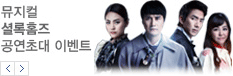
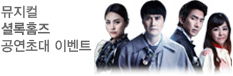
dddddd

Changed region(s): [[0.0, 0.7895, 0.1502, 1.0]]

diff --git a/html/bobe.html b/html/bobe.html
@@ -3,6 +3,7 @@
 <head>
     <meta charset="UTF-8">
     <title>Document</title>
+    <!--집<base href="file:///D:/homework/">-->
     <base href="file:///D:/UIUX-JIEUN/study/">
     <link rel="stylesheet" href="css/bobe.css">
 </head>
@@ -11,12 +12,7 @@
         <div class="topbar">
             <div class="wrap">
                 <p><img src="images/topbar_star.png" alt="">즐겨찾기</p>
-                    <!--<ol class="rank">
-                        <li>1</li>
-                        <li>2</li>
-                        <li><div><img src="images/topbar_10.png" alt=""></div><span>기아 K5 하이브리드 (12년식)</span></li>
-                    </ol>-->
-                    <section class="topbar_menue">
+                    <div class="topbar_menue">
                         <ul>
                             <li><a href="">로그인</a></li>
                             <li><a href="">회원가입</a></li>
@@ -27,7 +23,7 @@
                             <li><a href="">전체메뉴</a><img src="images/topbar_down.png" alt=""</li>
                             <li><img src="images/topbar_mobile.png" alt=""><a href="">모바일</a></li>
                         </ul>
-                    </section>
+                    </div>
                 </div>
                 <div class="top">
                     <div class="wrap">
@@ -42,16 +38,158 @@
                             </ul>
                         </div>
                         <div class="top_center">
-                            <p><a><img src="images/top_ad.png" alt=""></a></p>
+                            <p><a href="#"><img src="images/top_ad.png" alt=""></a></p>
                             <fieldset>
                                 <legend class="hide">검색</legend>
                                     <input class="textbox" type="text"><input class="searchbox" type="submit" value="">
                             </fieldset>
                         </div>
+                        <div class="top_right">
+                            <div class="top_bunch_ad">
+                                <button class="prev">prev</button>
+                                <button class="next">next</button>
+                                <ul>
+                                    <li class="on"><a href="#"><div><img src="images/top_ad2.png" alt="" /></div></a></li>
+                                    <li><a href="#"><div><img src="images/top_ad2.png" alt="" /></div></a></li>
+                                    <li><a href="#"><div><img src="images/top_ad2.png" alt="" /></div></a></li>
+                                </ul>
+                            </div>
+                        </div>
+                    </div>
+                </div>
+                <div class="main_menue">
+                    <div class="wrap">
+                        <ul>
+                            <li><a href="#"><div><img src="images/mainmenue_1.png" alt="사이버매장" /></div></a>
+                                <div class=sub_menue>
+                                    <ul>
+                                        <li><a href="#"><img src="images/submenue_1.jpg" alt="" /></a></li>
+                                        <li><a href="#"><img src="images/submenue_2.jpg" alt="" /></a></li>
+                                        <li><a href="#"><img src="images/submenue_3.jpg" alt="" /></a></li>
+                                        <li><a href="#"><img src="images/submenue_4.jpg" alt="" /></a></li>
+                                        <li><a href="#"><img src="images/submenue_5.jpg" alt="" /></a></li>
+
+                                    </ul>
+                                </div>
+                                <div class="visitor_count">
+                                    <span>오늘 방문<strong>514,795</strong><span>
+                                </div>
+                            </li>
+                            <li><a href="#"><div><img src="images/mainmenue_2.png" alt="국산중고차" /></div></a></li>
+                            <li><a href="#"><div><img src="images/mainmenue_3.png" alt="수입중고차" /></div></a></li>
+                            <li><a href="#"><div><img src="images/mainmenue_4.png" alt="내차팔기" /></div></a></li>
+                            <li><a href="#"><div><img src="images/mainmenue_5.png" alt="커뮤니티" /></div></a></li>
+                            <li><a href="#"><div><img src="images/mainmenue_6.png" alt="더보기" /></div></a><img src="images/mainmenue_6_down.png" alt="" /></li>
+                        </ul>
                     </div>
                 </div>
             </div>
-        </div>
     </header>
+    <div class="content">
+        <div class="wrap">
+            <div class="right_content">
+                <div class="main_information">
+                    <div class="main_information_ad">
+                        <ul>
+                            <li class="action">
+                                <div><img src="images/main_information_ad.jpg" alt=""></div>
+                            </li>
+                            <li>
+                                <div><img src="images/main_information_ad2.jpg" alt=""></div>
+                            </li>
+                        </ul>
+                    </div>
+                    <div class="main_information_countdown"><img src="images/main_information_countdown.jpg" alt=""></div>
+                    <div class="main_information_bunch">
+                        <button class="prev">prev</button>
+                        <button class="next">next</button>
+                        <ul>
+                            <li><div><img src="images/main_information_car1.jpg" alt=""></div><div class="text_box"><span><strong>사이버매장 특종매물</strong>2013 아우디 R8 5.2 V10 스파이더<span></div></li>
+                            <li><div><img src="images/main_information_car1.jpg" alt=""></div></li>
+                        </ul>
+                    </div>
+                    <div class="main_information_list">
+                        <ul>
+                            <li><div><img src="images/main_information_car2.jpg" alt=""></div>
+                                <a><strong>국산중고차 특종매물</strong><p>1988 현대 스텔라 1.5 88형 GLX<br/>극 희소. 1988년 올림픽 공식모델!!</p>
+                                </a></li>
+                            <li><div><img src="images/main_information_car3.jpg" alt=""></div>
+                                <a><strong>국산중고차 특종매물</strong><p>1988 현대 스텔라 1.5 88형 GLX<br/>극 희소. 1988년 올림픽 공식모델!!</p>
+                                </a></li>
+                            <li><div><img src="images/main_information_car4.png" alt=""></div>
+                                <a><strong>국산중고차 특종매물</strong><p>1988 현대 스텔라 1.5 88형 GLX<br/>극 희소. 1988년 올림픽 공식모델!!</p>
+                                </a></li>
+                        </ul>
+                    </div>
+                </div>
+                <div class="cybershop list">
+                    <p><h2><img src="images/cybershop_logo.jpg" alt=""></h2>
+                    <button class="more">더보기</button></p>
+                    <ul>
+                        <li><div><img src="images/cybershop_1.jpg" alt=""></div><span>BMW 1M 쿠페<br/> 2001년식</span></li>
+                        <li><div><img src="images/cybershop_2.jpg" alt=""></div><span>BMW 1M 쿠페<br/> 2001년식</span></li>
+                        <li><div><img src="images/cybershop_4.jpg" alt=""></div><span>BMW 1M 쿠페<br/> 2001년식</span></li>
+                        <li><div><img src="images/cybershop_3.jpg" alt=""></div><span>BMW 1M 쿠페<br/> 2001년식</span></li>
+                        <li><div><img src="images/cybershop_5.jpg" alt=""></div><span>BMW 1M 쿠페<br/> 2001년식</span></li>
+                    </ul>
+                </div>
+                <div class="domestic_product list">
+                    <p><h2><img src="images/domestic_logo.jpg" alt=""></h2></p>
+                    <button class="more">더보기</button>
+                    <ul>
+                        <li><div><img src="images/cybershop_1.jpg" alt=""></div><span>BMW 1M 쿠페<br/> 2001년식</span></li>
+                        <li><div><img src="images/cybershop_2.jpg" alt=""></div><span>BMW 1M 쿠페<br/> 2001년식</span></li>
+                        <li><div><img src="images/cybershop_4.jpg" alt=""></div><span>BMW 1M 쿠페<br/> 2001년식</span></li>
+                        <li><div><img src="images/cybershop_3.jpg" alt=""></div><span>BMW 1M 쿠페<br/> 2001년식</span></li>
+                        <li><div><img src="images/cybershop_5.jpg" alt=""></div><span>BMW 1M 쿠페<br/> 2001년식</span></li>
+                    </ul>
+                </div>
+                <div class="import_product list">
+                    <p><h2><img src="images/import_logo.jpg" alt=""></h2></p>
+                    <button class="more">더보기</button>
+                    <ul>
+                        <li><div><img src="images/cybershop_1.jpg" alt=""></div><span>BMW 1M 쿠페<br/> 2001년식</span></li>
+                        <li><div><img src="images/cybershop_2.jpg" alt=""></div><span>BMW 1M 쿠페<br/> 2001년식</span></li>
+                        <li><div><img src="images/cybershop_4.jpg" alt=""></div><span>BMW 1M 쿠페<br/> 2001년식</span></li>
+                        <li><div><img src="images/cybershop_3.jpg" alt=""></div><span>BMW 1M 쿠페<br/> 2001년식</span></li>
+                        <li><div><img src="images/cybershop_5.jpg" alt=""></div><span>BMW 1M 쿠페<br/> 2001년식</span></li>
+                    </ul>
+                </div>
+                <div class="bike_product list">
+                    <p><h2><img src="images/bike_logo.jpg" alt=""></h2></p>
+                    <button class="more">더보기</button>
+                    <ul>
+                        <li><div><img src="images/cybershop_1.jpg" alt=""></div><span>BMW 1M 쿠페<br/> 2001년식</span></li>
+                        <li><div><img src="images/cybershop_2.jpg" alt=""></div><span>BMW 1M 쿠페<br/> 2001년식</span></li>
+                        <li><div><img src="images/cybershop_4.jpg" alt=""></div><span>BMW 1M 쿠페<br/> 2001년식</span></li>
+                        <li><div><img src="images/cybershop_3.jpg" alt=""></div><span>BMW 1M 쿠페<br/> 2001년식</span></li>
+                        <li><div><img src="images/cybershop_5.jpg" alt=""></div><span>BMW 1M 쿠페<br/> 2001년식</span></li>
+                    </ul>
+                </div>
+                <div class="joincompany list">
+                    <p><h2><img src="images/joincompany_logo.jpg" alt=""></h2></p>
+                    <button class="more">더보기</button>
+                    <ul>
+                        <li><div><img src="images/cybershop_1.jpg" alt=""></div><span>BMW 1M 쿠페<br/> 2001년식</span></li>
+                        <li><div><img src="images/cybershop_2.jpg" alt=""></div><span>BMW 1M 쿠페<br/> 2001년식</span></li>
+                        <li><div><img src="images/cybershop_4.jpg" alt=""></div><span>BMW 1M 쿠페<br/> 2001년식</span></li>
+                        <li><div><img src="images/cybershop_3.jpg" alt=""></div><span>BMW 1M 쿠페<br/> 2001년식</span></li>
+                        <li><div><img src="images/cybershop_5.jpg" alt=""></div><span>BMW 1M 쿠페<br/> 2001년식</span></li>
+                    </ul>
+                </div>
+            </div>
+            <aside>
+                <div class="login">
+                    <fieldset>
+                        <legend class="hide">로그인</legend>
+                        <input class="id" type="text">
+                        <input class="passwoard" type="text">
+                        <input class="page_login" type="submit">
+                        <input class="check_id" type="checkbox"> <span>ID저장<span>
+                    </fieldset>
+                </div>
+            </aside>
+        </div>
+    </div>
 </body>
 </html>

diff --git a/css/bobe.css b/css/bobe.css
@@ -7,27 +7,101 @@ a{text-decoration:none;}
 .wrap{width:990px; margin:0 auto;}
 .hide{font-size:0;position:absolute;left:-9999999px;top:-999999px;overflow:hidden;width: 0;height: 0;}
 body{font-size:11px}
+.more{border:none; background:none; color:#a2a2a2;background:url("../images/more_icon.jpg") no-repeat 40px;font-size:12px;padding-right:4px;position:absolute;}
 
-/*header*/
+/*header css */
 header{height:214px; width:auto;border-bottom:1px #c7cbce solid;}
 header .topbar{background-color:#f8f8f8;height:30px;width:auto;border-bottom:1px #d5d0cc solid;}
-header .topbar .wrap{width:999px;height:30px;position:relative;margin-bottom:16px;}
+header .topbar .wrap{height:30px;position:relative;line-height:30px;}
 header .topbar .wrap p{float:left;line-height:30px;}
-header .topbar .wrap .rank{position:absolute;left:23px}
-header .topbar .wrap .rank li{float:left;}
-header .topbar .wrap .topbar_menue{margin-left:464px;color:#666666;}
-header .topbar .wrap .topbar_menue li{float:left;padding-left:8px;margin-right:8px;line-height:30px;background:url("../images/topbar_slide.png")no-repeat left;}
+header .topbar .wrap p>img{padding-right:2px;}
+header .topbar .wrap .topbar_menue{color:#666666;float:right;}
+header .topbar .wrap .topbar_menue li{float:left;padding:0 8px;line-height:30px;background:url("../images/topbar_slide.png")no-repeat 2px;}
 header .topbar .wrap .topbar_menue li:first-child{padding-left:0;background:none;}
-header .topbar .wrap .topbar_menue li>img{display:inline-block;*zoom:1;display:inline; vertical-align:middle; margin-left:3px}
+header .topbar .wrap .topbar_menue li>img{display:inline-block;*zoom:1;display:inline; vertical-align:middle; margin-left:3px;}
 
-header .top .wrap .top_left{float:left; border:1px solid}
-header .top .wrap .top_left>h1>img{margin-top:18px;}
-header .top .wrap .top_left ul{margin-top:19px;}
+header .top{padding-top:16px;}
+header .top .wrap{height:91px}
+header .top .wrap .top_left{float:left;width:320px;}
+header .top .wrap .top_left>h1>img{padding-top:18px;}
+header .top .wrap .top_left ul{padding-top:19px;}
 header .top .wrap .top_left ul li{padding:0 9px;float:left;background:url("../images/topbar_slide.png") no-repeat 0 2px;line-height:14px;}
 header .top .wrap .top_left ul li:first-child{padding-left:0}
 
-header .top .wrap .top_center{margin-left:73px ;width:280px;height:73px;float:left}
+header .top .wrap .top_center{margin-left:73px;float:left;width:281px;}
 header .top .wrap .top_center>p{height:48px;}
 header .top .wrap .top_center fieldset{border:none;}
 header .top .wrap .top_center fieldset .textbox{width:238px;height:21px;border:2px #3b5999 solid;}
 header .top .wrap .top_center fieldset .searchbox{width:38px;height:25px;background:url("../images/top_searchbox.png");border:none;}
+
+header .top .wrap .top_right{float:right;}
+header .top .wrap .top_right .top_bunch_ad{width:233px;height:76px;position:relative;}
+header .top .wrap .top_right .top_bunch_ad button{position:absolute;left:0;bottom:0;width:15px;height:15px;text-indent:-99999px;border:none;z-index:1}
+header .top .wrap .top_right .top_bunch_ad button.prev{background:url("../images/top_button_left.png")}
+header .top .wrap .top_right .top_bunch_ad button.next{background:url("../images/top_button_right.png");left:14px;}
+header .top .wrap .top_right .top_bunch_ad ul>li>a>div{width:233px ;height:76px;}
+header .top .wrap .top_right .top_bunch_ad ul>li>a>div>img{width:100%}
+header .top .wrap .top_right .top_bunch_ad ul>li{position:absolute;display:none;}
+header .top .wrap .top_right .top_bunch_ad ul>li.on{display:block;}
+
+
+header .main_menue{height:39px;}
+header .main_menue .wrap{background-color:#3b5999;height:39px;}
+header .main_menue>div>ul{background:#3b5999}
+header .main_menue>div>ul>li{float:left;background:url("../images/mainmenue_slide2.png")no-repeat 0;}
+header .main_menue ul li>a>div{height:39px;padding-right:10px;padding-left:10px;line-height:39px}
+header .main_menue ul li:first-child>a>div{background-color:#5785f2;}
+header .main_menue ul li>a>div>img{display:inline-block;*zoom:1;display:inline;margin-top:12px}
+header .main_menue ul li>img{position:absolute;top:18px; left:465px;}
+header .main_menue ul li .sub_menue{height:37px;width:100%;position:absolute;line-height:0}
+header .main_menue ul li .sub_menue ul{position:relative;}
+header .main_menue ul li .sub_menue ul li{float:left;padding:0 10px; margin-top:12px; background:url("../images/top_slide.png")no-repeat 0 1px}
+header .main_menue ul li .sub_menue ul li:first-child{background:none;}
+header .main_menue ul li .visitor_count{position:absolute; margin-left:797px; height:37px;line-height:39px; color:#373737}
+header .main_menue ul li .visitor_count strong{color:#005dde}
+
+
+/*content css*/
+.content .right_content{width:746px; float:left;margin-top:5px;}
+.content .right_content .main_information{width:746px; height:355px;border-bottom:1px #c7cbce solid;margin-bottom:14px}
+.content .right_content .main_information .main_information_ad{width:520px;height:100px;float:left;}
+.content .right_content .main_information .main_information_ad ul{position:relative;}
+.content .right_content .main_information .main_information_ad ul li{position:absolute;display:none;}
+.content .right_content .main_information .main_information_ad ul li.action{display:block}
+.content .right_content .main_information .main_information_ad ul li>div{border:1px #c7cbce solid; width:520px;height:100px;}
+.content .right_content .main_information .main_information_ad ul li>div>img{width:100%;height:100%}
+.content .right_content .main_information .main_information_countdown{margin-left:526px;border:1px #c7cbce solid; width:220px; height:100px;}
+.content .right_content .main_information .main_information_countdown>img{width:100%;height:100%}
+.content .right_content .main_information .main_information_bunch{width:400px; height:232px;position:relative;margin-top:11px;float:left;}
+.content .right_content .main_information .main_information_bunch button{position:absolute; width:17px;height:17px;border:none;text-indent:-999999px;bottom:8px;z-index:2}
+.content .right_content .main_information .main_information_bunch button.prev{background:url("../images/information_bunch1.jpg");right:29px}
+.content .right_content .main_information .main_information_bunch button.next{background:url("../images/information_bunch2.jpg");right:12px;}
+.content .right_content .main_information .main_information_bunch ul{position:relative;}
+.content .right_content .main_information .main_information_bunch ul li{position:absolute;}
+.content .right_content .main_information .main_information_bunch ul li img{border:1px solid;}
+.content .right_content .main_information .main_information_bunch ul li .text_box{line-height:22px ;background-color:#3e3d36; padding:0 10px; width:382px; height:44px ;color:#ffffff;position:absolute; z-index: 1;bottom:0;left:0}
+.content .right_content .main_information .main_information_bunch ul li .text_box strong{font-size:14px;display:block;}
+.content .right_content .main_information .main_information_list{width:324px; height:233px;float:left;margin-top:11px;margin-left:8px;}
+.content .right_content .main_information .main_information_list>ul>li{height:72px; padding:4px;border-top:1px #e4e6e5 solid;padding-top:4px}
+.content .right_content .main_information .main_information_list>ul>li:first-child{padding-top:0; border:none}
+.content .right_content .main_information .main_information_list>ul>li>div{border:1px #c7cbce solid;width:110px;height:70px;float:left;}
+.content .right_content .main_information .main_information_list>ul>li a{display:block;line-height:18px;font-size:12px;padding-top:11px;padding-left:123px}
+
+.content .right_content .list{border-top:1px #c7cbce solid;height:182px;position:relative;}
+.content .right_content .cybershop{border-top:none;}
+.content .right_content .list p{margin-bottom:9px; margin-top:}
+.content .right_content .list p:first-child{margin-bottom:0}
+.content .right_content .list button{top:10px;right:14px; top:0;right:10px;top:5px; right:15px;}
+.content .right_content .list li{float:left; margin-left:10px;}
+.content .right_content .list li:first-child{margin-left:0;}
+.content .right_content .list li div{border:1px #c7cbce solid; width:136px; height:102px;}
+.content .right_content .list li span{display:block;padding-top:10px;text-align:center;color:#666666}
+
+/*aside css*/
+aside{margin-left:753px;border:1px #c6c7c6 solid;height:1800px;}
+aside .login{border:1px solid; width:235px;height:100px;background:#f6f6f6;position:relative;}
+aside .login fieldset{border:none;}
+aside .login fieldset .id{margin-top:12px;}
+aside .login fieldset .passwoard{margin-bottom:10px;}
+aside .login fieldset input[type=text]{width:149px;height:26px;border:1px #c7cbce solid;margin-left:14px;display:block;}
+aside .login fieldset .page_login{width:54px; height:54px;border:1px #858b9d solid;text-indent:-999999px;background:url("../images/login_submit.jpg");position:absolute;top:12px;right:10px}
